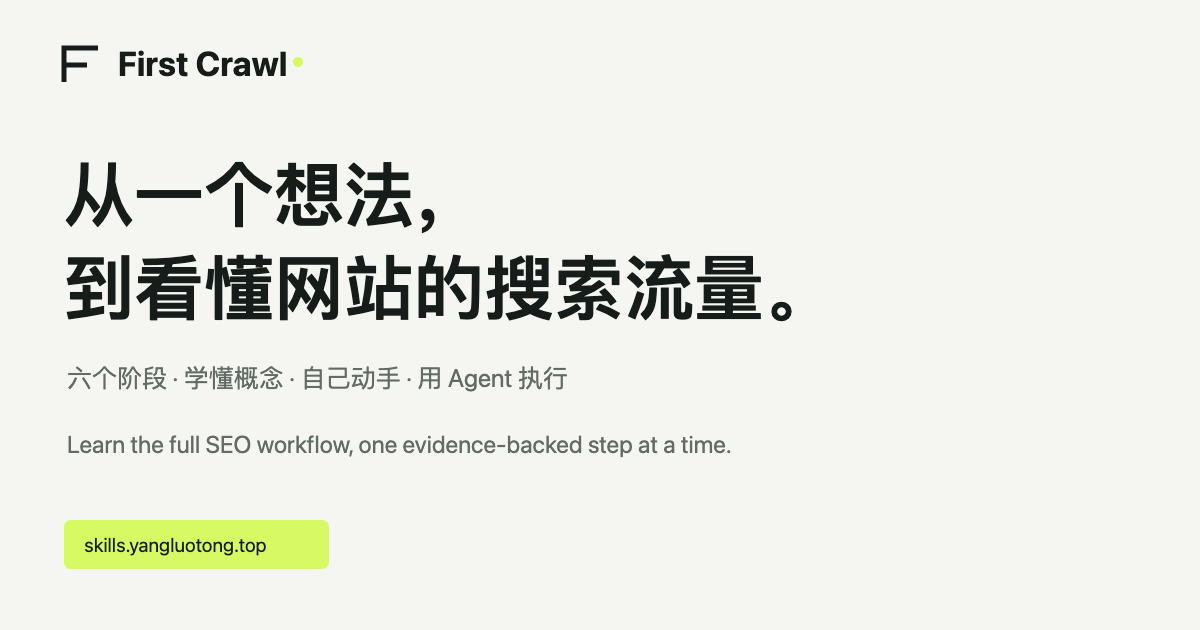
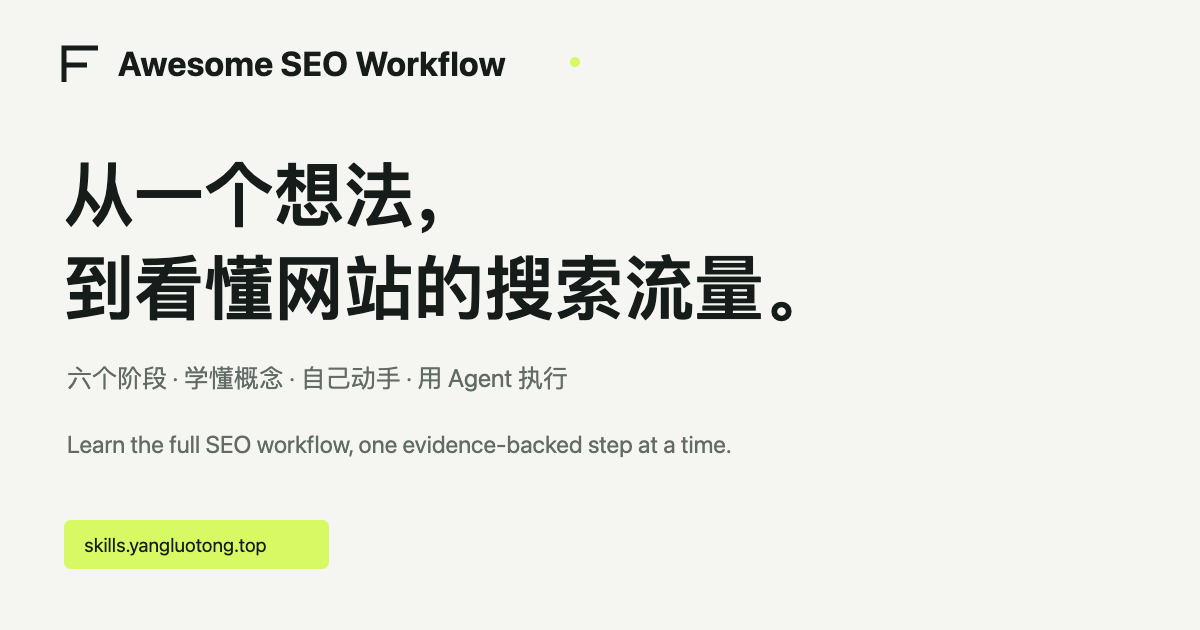
Rename Awesome SEO Workflow and add navigation, read-only CI and pinned releases

Changed region(s): [[0.0925, 0.0603, 0.4317, 0.1206], [0.4625, 0.0905, 0.4933, 0.1206]]

diff --git a/public/style.css b/public/style.css
@@ -25,3 +25,5 @@
 @media(max-width:640px){.beginner-hero{padding:25px 0 26px}.beginner-hero h1{font-size:40px;line-height:1.15;letter-spacing:-1.5px;margin-bottom:18px}.beginner-hero .eyebrow{font-size:11px;margin-bottom:15px}.beginner-hero .lede{font-size:15px;line-height:1.8;margin-bottom:14px}.beginner-intro{font-size:14px;line-height:1.85;margin:0 0 20px}.beginner-hero .button{font-size:13px}.search-story{margin-top:26px;padding:20px 18px;border-radius:11px}.search-story figcaption{font-size:11px;margin-bottom:18px}.story-search p{font-size:13px;padding:12px 14px}.story-result{padding:3px 10px}.story-result p{font-size:17px}.story-connector{margin:12px 9px}.story-connector span{font-size:10px}.story-page{padding:16px}.story-timer{font-size:43px}.search-story .story-boundary{font-size:11px}.beginner-entries{padding-bottom:34px}.beginner-entries>p{font-size:14px;line-height:1.8;margin-bottom:20px}.beginner-entries>div{display:block}.entry-link{padding-top:17px;margin:0 0 27px}.entry-link>strong{font-size:16px}.entry-link>span,.entry-link>p{font-size:14px;line-height:1.85}.entry-link h2{font-size:22px}.beginner-section{padding:32px 0 38px}.beginner-section h2{font-size:27px;letter-spacing:-.6px;margin-bottom:20px}.beginner-section>.eyebrow{font-size:11px}.beginner-flow ol{display:block;margin:22px 0}.beginner-flow li{padding-top:14px;margin-bottom:23px;font-size:15px;line-height:1.85}.mechanism-distinction{font-size:13px;line-height:1.85}.home-practice{display:block}.home-practice .prose>p:first-child{font-size:19px}.home-practice .prose p{font-size:15px}.home-practice .prose>p:last-child>a{font-size:14px}.beginner-section-intro{font-size:14px}.beginner-lesson-row{grid-template-columns:29px minmax(0,1fr) 15px;gap:13px;padding:23px 0}.beginner-lesson-row h3{font-size:21px;margin-bottom:8px}.beginner-lesson-row p{font-size:14px}.beginner-lesson-output{grid-column:2;grid-row:2;font-size:12px}.beginner-lesson-row>span:last-child{grid-column:3;grid-row:1}.beginner-takeaway p,.beginner-ai>p{font-size:15px}.beginner-takeaway p:last-child{font-size:12px}.beginner-disclosure>summary{font-size:15px}.beginner-disclosure>p{font-size:14px!important}.beginner-page .page-head h1{font-size:36px}.beginner-page .page-head .lede{font-size:20px;line-height:1.6}.beginner-page .article-layout{display:block}.beginner-page .prose>p:first-child{font-size:16px}.beginner-step{margin:28px 0 32px}.beginner-step h2{font-size:23px}.prose .one-action{font-size:17px;padding-left:17px}.worked-record{padding:20px 18px}.prose .worked-record pre{font-size:15px;line-height:1.9}.lesson-paths h3{font-size:18px}.lesson-paths p{font-size:15px}.prose .lesson-save{font-size:12px}.lesson-next h2{font-size:23px}.lesson-next .page-next>a{font-size:13px;max-width:100%}.lesson-next .page-next{display:block}.lesson-next .page-next>a{display:block;margin:12px 0}.complete-checklist h2{font-size:22px}}
 
 .mobile-seo-intro{display:none}@media(max-width:640px){.beginner-hero .beginner-intro{display:none}.beginner-entries>.mobile-seo-intro{display:block;font-size:14px;line-height:1.85;margin:0 0 20px}}
+
+@media(max-width:700px){.site-header .brand{font-size:16px;letter-spacing:-.5px}.site-header .brand-mark{width:21px;height:21px;flex:none}.site-header .brand-dot{flex:none}}

diff --git a/scripts/check-project.py b/scripts/check-project.py
@@ -1,0 +1,97 @@
+"""Offline public-project checks. No account access, deployments or live Skill runs."""
+from pathlib import Path
+from html.parser import HTMLParser
+from urllib.parse import urlsplit, unquote
+from zipfile import ZipFile
+import hashlib, json, posixpath, re, subprocess
+
+ROOT=Path(__file__).resolve().parents[1]
+def run(*args):
+    subprocess.run(args,cwd=ROOT,check=True)
+
+run('python3','examples/verify.py')
+run('python3','content/workflow/validate.py')
+run('python3','scripts/validate-skill-locales.py')
+run('npm','run','build:release')
+
+def unique(values,label):
+    assert len(values)==len(set(values)),f'Duplicate {label}'
+
+locales=json.loads((ROOT/'skills/locales.json').read_text())
+unique([s['id'] for s in locales['skills']],'Skill IDs')
+concepts=json.loads((ROOT/'content/concepts/concepts.json').read_text())
+unique([c['id'] for c in concepts['items']],'concept IDs')
+lessons=json.loads((ROOT/'content/beginner/stages.replacement.json').read_text())
+unique([s['id'] for s in lessons['stages']],'lesson IDs')
+dist=ROOT/'dist'
+info=json.loads((dist/'build-info.json').read_text())
+unique(info['pages'],'page routes')
+assert len(info['pages'])==60
+
+class Page(HTMLParser):
+    def __init__(self):
+        super().__init__();self.ids=[];self.links=[];self.headings=0
+    def handle_starttag(self,tag,attrs):
+        attrs=dict(attrs)
+        if 'id' in attrs:self.ids.append(attrs['id'])
+        if tag=='h1':self.headings+=1
+        for key in ['href','src']:
+            if key in attrs:self.links.append(attrs[key])
+
+pages={}
+for path in dist.rglob('*.html'):
+    page=Page();page.feed(path.read_text());pages[path.resolve()]=page
+    unique(page.ids,str(path.relative_to(dist))+' HTML IDs')
+for path,page in pages.items():
+    relative='/'+str(path.relative_to(dist))
+    for link in page.links:
+        u=urlsplit(link)
+        if u.scheme or u.netloc:continue
+        target=unquote(u.path)
+        if not target:target=relative
+        elif not target.startswith('/'):target=posixpath.join(posixpath.dirname(relative),target)
+        target=posixpath.normpath(target)
+        file=(dist/target.lstrip('/')).resolve()
+        if file.is_dir():file=file/'index.html'
+        assert file.is_relative_to(dist) and file.exists(),f'Missing internal link: {relative} -> {link}'
+        if u.fragment and file in pages:
+            assert unquote(u.fragment) in pages[file].ids,f'Missing anchor: {relative} -> {link}'
+for route in info['pages']:
+    file=(dist/route.lstrip('/')/'index.html').resolve()
+    assert pages[file].headings==1,f'Expected one h1: {route}'
+
+for lang in ['zh','en']:
+    for skill in locales['skills']:
+        source=ROOT/skill['languages'][lang]['sourceDirectory'];id=skill['id']
+        file=dist/skill['languages'][lang]['zip'].lstrip('/')
+        with ZipFile(file) as archive:
+            for item in source.rglob('*'):
+                if item.is_file() and item.name!='.DS_Store':
+                    assert archive.read(id+'/'+str(item.relative_to(source)))==item.read_bytes(),f'Incomplete {lang} package: {id}'
+            assert archive.read(id+'/LICENSE')==(ROOT/'LICENSE').read_bytes()
+        raw=dist/skill['languages'][lang]['rawEntrypoint'].lstrip('/')
+        assert raw.read_bytes()==(source/'SKILL.md').read_bytes()
+    with ZipFile(dist/'downloads/skills'/lang/'first-crawl-execution-skills.zip') as archive:
+        assert sum(name.endswith('/SKILL.md') for name in archive.namelist())==7
+        for skill in locales['skills']:
+            assert archive.read(skill['id']+'/SKILL.md')==(ROOT/skill['languages'][lang]['sourceDirectory']/'SKILL.md').read_bytes()
+
+manifest=json.loads((dist/'downloads/skills/manifest.json').read_text())
+assert manifest['sourceCommit']==info['sourceCommit']
+assert manifest['version']==info['version']
+assert len(manifest['downloads'])==16
+for item in manifest['downloads']:
+    file=dist/item['path'].lstrip('/')
+    assert hashlib.sha256(file.read_bytes()).hexdigest()==item['sha256']
+    release=dist/'downloads/releases'/manifest['releaseTag']/item['releaseAsset']
+    assert release.read_bytes()==file.read_bytes()
+    assert item['sourceCommit']==info['sourceCommit'] and item['version']==info['version']
+for skill in locales['skills']:
+    for suffix in ['.zip','/SKILL.md']:
+        assert (dist/'downloads/skills'/(skill['id']+suffix)).read_bytes()==(dist/'downloads/skills/zh'/(skill['id']+suffix)).read_bytes()
+
+for filename in ['README.md','README.zh-CN.md','USAGE.md','USAGE.zh-CN.md','CONTRIBUTING.md','CONTRIBUTING.zh-CN.md']:
+    for target in re.findall(r'\[[^\]]*\]\(([^)]+)\)',(ROOT/filename).read_text()):
+        u=urlsplit(target)
+        if not u.scheme and not u.netloc and u.path:assert (ROOT/unquote(u.path)).exists(),f'Missing document link: {filename}'
+print(json.dumps({'result':'PASS','scope':'Offline IDs, internal routes/anchors, bilingual packages and release version/commit/checksums','pages':60,'originalSkills':7,'languageEntries':14,'versionedZIPs':16,'liveSkillExecution':'NOT_RUN'}))

diff --git a/scripts/package-skills.py b/scripts/package-skills.py
@@ -1,7 +1,13 @@
 """Package complete Chinese/English original Skills; never install or execute them."""
 from pathlib import Path
-from zipfile import ZipFile, ZIP_DEFLATED
-import hashlib, json, shutil
+from zipfile import ZipFile, ZipInfo, ZIP_DEFLATED
+import argparse, hashlib, json, shutil
+
+parser=argparse.ArgumentParser()
+parser.add_argument('--version',required=True)
+parser.add_argument('--commit',required=True)
+parser.add_argument('--repository',required=True)
+args=parser.parse_args()
 
 root=Path(__file__).resolve().parents[1]
 out=root/'dist/downloads/skills'
@@ -9,6 +15,19 @@ out.mkdir(parents=True,exist_ok=True)
 manifest=json.loads((root/'skills/locales.json').read_text())
 license_bytes=(root/'LICENSE').read_bytes()
 downloads=[]
+release= root/'dist/downloads/releases'/('v'+args.version)
+release.mkdir(parents=True,exist_ok=True)
+
+def add_bytes(archive,name,data):
+    info=ZipInfo(name,date_time=(1980,1,1,0,0,0))
+    info.compress_type=ZIP_DEFLATED
+    info.external_attr=0o100644 << 16
+    archive.writestr(info,data)
+
+def record(archive,lang,skill):
+    filename=f'awesome-seo-workflow-v{args.version}-{lang}-{skill}.zip'
+    shutil.copyfile(archive,release/filename)
+    downloads.append({'version':args.version,'sourceCommit':args.commit,'language':lang,'skillId':skill,'path':'/downloads/skills/'+lang+'/'+archive.name,'releaseAsset':filename,'fixedVersionURL':args.repository+'/releases/download/v'+args.version+'/'+filename,'sha256':hashlib.sha256(archive.read_bytes()).hexdigest(),'liveExecution':'NOT_RUN'})
 
 def folder_files(folder):
     return [p for p in sorted(folder.rglob('*')) if p.is_file() and p.name!='.DS_Store']
@@ -27,18 +46,18 @@ for lang in ['zh','en']:
         archive=destination/(folder.name+'.zip')
         with ZipFile(archive,'w',ZIP_DEFLATED) as z:
             for file in folder_files(folder):
-                z.write(file,folder.name+'/'+str(file.relative_to(folder)))
-            z.writestr(folder.name+'/LICENSE',license_bytes)
-        downloads.append({'language':lang,'skillId':folder.name,'path':'/downloads/skills/'+lang+'/'+archive.name,'sha256':hashlib.sha256(archive.read_bytes()).hexdigest(),'liveExecution':'NOT_RUN'})
+                add_bytes(z,folder.name+'/'+str(file.relative_to(folder)),file.read_bytes())
+            add_bytes(z,folder.name+'/LICENSE',license_bytes)
+        record(archive,lang,folder.name)
     archive=destination/'first-crawl-execution-skills.zip'
     with ZipFile(archive,'w',ZIP_DEFLATED) as z:
-        z.writestr('LICENSE',license_bytes)
-        z.write(root/('USAGE.zh-CN.md' if lang=='zh' else 'USAGE.md'),'README.md')
+        add_bytes(z,'LICENSE',license_bytes)
+        add_bytes(z,'README.md',(root/('USAGE.zh-CN.md' if lang=='zh' else 'USAGE.md')).read_bytes())
         for folder in language_folders:
             for file in folder_files(folder):
-                z.write(file,folder.name+'/'+str(file.relative_to(folder)))
-            z.writestr(folder.name+'/LICENSE',license_bytes)
-    downloads.append({'language':lang,'skillId':'all-seven','path':'/downloads/skills/'+lang+'/'+archive.name,'sha256':hashlib.sha256(archive.read_bytes()).hexdigest(),'liveExecution':'NOT_RUN'})
+                add_bytes(z,folder.name+'/'+str(file.relative_to(folder)),file.read_bytes())
+            add_bytes(z,folder.name+'/LICENSE',license_bytes)
+    record(archive,lang,'all-seven')
 
 # The eight original unprefixed download URLs and raw directories remain Chinese.
 for skill in manifest['skills']:
@@ -46,7 +65,11 @@ for skill in manifest['skills']:
     shutil.copytree(out/'zh'/id,out/id,dirs_exist_ok=True)
     shutil.copyfile(out/'zh'/(id+'.zip'),out/(id+'.zip'))
 shutil.copyfile(out/'zh/first-crawl-execution-skills.zip',out/'first-crawl-execution-skills.zip')
-(out/'manifest.json').write_text(json.dumps({'instructionLanguages':['zh-CN','en'],'legacyDownloadsLanguage':'zh-CN','downloads':downloads},ensure_ascii=False,indent=2)+'\n')
+release_manifest={'version':args.version,'sourceCommit':args.commit,'repository':args.repository,'releaseTag':'v'+args.version,'releaseURL':args.repository+'/releases/tag/v'+args.version,'instructionLanguages':['zh-CN','en'],'legacyDownloadsLanguage':'zh-CN','downloads':downloads}
+manifest_text=json.dumps(release_manifest,ensure_ascii=False,indent=2)+'\n'
+(out/'manifest.json').write_text(manifest_text)
+(release/'manifest.json').write_text(manifest_text)
+(release/'SHA256SUMS.txt').write_text(''.join(d['sha256']+'  '+d['releaseAsset']+'\n' for d in downloads))
 
 templates=json.loads((root/'content/workflow/templates.json').read_text())['templates']
 for lang in ['zh','en']:

diff --git a/README.md b/README.md
@@ -1,6 +1,8 @@
-# First Crawl
+# Awesome SEO Workflow
 
 English · [简体中文](README.zh-CN.md)
+
+[Public repository: codesica/awesome-seo-workflow](https://github.com/codesica/awesome-seo-workflow). This is the existing repository under its new name; Git history, issues and stars are retained. Existing `first-crawl` download filenames and stable lesson IDs remain compatible.
 
 A beginner SEO course and seven original Agent Skills. Follow one fictional five-minute timer example to understand how search can lead to a useful page, then complete one small task at a time. The examples do not establish real demand, indexing, rankings, traffic, or income.
 
@@ -28,6 +30,47 @@ The [introduction](https://skills.yangluotong.top/en/start/) is separate from le
 The [six lessons](https://skills.yangluotong.top/en/roadmap/) cover needs, page planning, content production, publication checks, discovery/promotion, and evidence-led improvement. The existing-site route uses pages you manage that are intended to be public. Keep private pages private. A draft is not a working tool or a published site.
 
 Each lesson puts the small task, completed fictional example, your path, and completion criteria first. Open detailed technical checklists and optional Skills when needed. All six stable stage IDs and 25 original actions remain available.
+
+## Six clickable steps
+
+Complete your own small task first. The paper route works without a website.
+
+| Step | Keep this output |
+| --- | --- |
+| [01 · Decide whom to help](https://skills.yangluotong.top/en/stages/01-search-opportunity/) | Four lines about the audience and task |
+| [02 · Sketch the page](https://skills.yangluotong.top/en/stages/02-page-plan/) | One page sketch |
+| [03 · Write and make the page](https://skills.yangluotong.top/en/stages/03-content-production/) | A readable draft or usable page |
+| [04 · Check the published page](https://skills.yangluotong.top/en/stages/04-publish-check/) | A publication check record |
+| [05 · Help people find a way in](https://skills.yangluotong.top/en/stages/05-discovery-promotion/) | A discovery and sharing record |
+| [06 · Check what happened, then improve](https://skills.yangluotong.top/en/stages/06-measure-iterate/) | One change with review conditions |
+
+## Seven original Skills: task → input → output
+
+Understand the task before choosing a bounded helper. Three browser packages require existing access; all seven remain live-site `NOT_RUN`.
+
+| Skill / task | Input | Output |
+| --- | --- | --- |
+| [Research public search results](https://skills.yangluotong.top/en/skills/research-search-results/) · `research-search-results` | Question, audience, region and bounded scope | Observed-evidence JSON with unknowns |
+| [Search opportunity evidence](https://skills.yangluotong.top/en/skills/seo-opportunity-evidence/) · `seo-opportunity-evidence` | Audience problems, existing pages, search observations or feedback | Opportunity cards and a next validation step |
+| [Page brief and search intent](https://skills.yangluotong.top/en/skills/seo-page-brief/) · `seo-page-brief` | Opportunity card, reader task, original evidence and existing pages | Page brief and a production handoff |
+| [Publication technical audit](https://skills.yangluotong.top/en/skills/seo-publish-audit/) · `seo-publish-audit` | URL, indexing intent, HTML, headers, robots, sitemap and links | Seven evidence checks, blockers, unknowns and proposed fixes |
+| [Read Google reports](https://skills.yangluotong.top/en/skills/inspect-search-console/) · `inspect-search-console` | Exact property, dates/URL and existing read access | Result JSON with filters, context and limits |
+| [Read Bing reports](https://skills.yangluotong.top/en/skills/inspect-bing-webmaster/) · `inspect-bing-webmaster` | Exact site, URL/sitemap and existing read access | Index/discovery evidence JSON; no submissions |
+| [Evidence-led iteration](https://skills.yangluotong.top/en/skills/seo-measure-decide/) · `seo-measure-decide` | Data export, change log, comparable baseline and observation window | Decision card, review conditions and stopping rules |
+
+Stage 3 has no dedicated production Skill; stage 5 does not automate outreach. See [usage](USAGE.md).
+
+## Optional third-party sources
+
+These are separate from the seven original packages. License and cost limits remain project-specific; their code is not bundled.
+
+- [SEO Skill · Local CLI](https://skills.yangluotong.top/en/skills/local-seo/)
+- [Claude SEO · Sitemap](https://skills.yangluotong.top/en/skills/seo-sitemap/)
+- [Firecrawl Scrape](https://skills.yangluotong.top/en/skills/firecrawl-scrape/)
+
+## Pinned versions and download verification
+
+Use [GitHub Releases](https://github.com/codesica/awesome-seo-workflow/releases) for a fixed version. Each release links the version, source commit, Chinese/English ZIPs and SHA-256 checksums; the website [download manifest](https://skills.yangluotong.top/downloads/skills/manifest.json) supplies the same mapping. Checksums establish file identity, not live SEO execution.
 
 ## Run locally
 
@@ -63,10 +106,7 @@ The four offline fixtures are synthetic. One fixed-version `seo 0.2.41 audit-pag
 Stage 3 has no dedicated production Skill. Stage 5 has read-only Bing inspection, not automated promotion. The paper route teaches planning and evidence interpretation; it does not build the example timer. Editorial review and browser QA are not a real beginner usability test.
 
 ```sh
-python3 examples/verify.py
-python3 content/workflow/validate.py
-python3 scripts/validate-skill-locales.py
-npm run build:release
+npm run check
 ```
 
 These checks validate the stated local scope, not indexing, rankings, growth, or end-to-end agent execution.

diff --git a/README.zh-CN.md b/README.zh-CN.md
@@ -1,6 +1,8 @@
-# First Crawl
+# Awesome SEO Workflow
 
 简体中文 · [English](README.md)
+
+[公开仓库：codesica/awesome-seo-workflow](https://github.com/codesica/awesome-seo-workflow)。这是原仓库的直接改名，Git 历史、issues 和 stars 均保留。现有 `first-crawl` 下载文件名及稳定课程 ID 保持兼容。
 
 一套适合新手的 SEO 课程，以及七个原创 Agent Skills。用“免费五分钟冥想计时网页”的假设例子，理解搜索怎样把人带到有用的页面，再一次完成一件小事。示例不代表真实需求、收录、排名、流量或收入。
 
@@ -28,6 +30,47 @@
 [六堂课](https://skills.yangluotong.top/zh/roadmap/) 依次处理需要、页面规划、内容制作、上线检查、发现与推广、根据证据改进。已有网站时，选择你负责、原本就应公开的页面；私密页面继续保持私密。草稿不等于可用工具，也不等于网站已上线。
 
 每课先展示小动作、填好的假设示例、适合你的路径和完成标准。需要时再展开技术清单与可选 Skills。原有六个稳定阶段 ID 和 25 个动作均保留。
+
+## 六阶段可点速览
+
+先完成自己的小任务；没有网站也能走纸上练习路线。
+
+| 阶段 | 这次留下什么 |
+| --- | --- |
+| [01 · 想清楚要帮谁](https://skills.yangluotong.top/zh/stages/01-search-opportunity/) | 受众与任务四行记录 |
+| [02 · 画出这一页](https://skills.yangluotong.top/zh/stages/02-page-plan/) | 一张页面草图 |
+| [03 · 写出来、做出来](https://skills.yangluotong.top/zh/stages/03-content-production/) | 可读草稿或可用页面 |
+| [04 · 打开上线页面检查](https://skills.yangluotong.top/zh/stages/04-publish-check/) | 公开页面检查记录 |
+| [05 · 让需要的人找到入口](https://skills.yangluotong.top/zh/stages/05-discovery-promotion/) | 发现与分享入口记录 |
+| [06 · 看发生了什么，再改](https://skills.yangluotong.top/zh/stages/06-measure-iterate/) | 一项改动与复查条件 |
+
+## 七个原创 Skills：任务 → 输入 → 输出
+
+先理解任务，再选一个有界帮手。三个浏览器包需要已有授权；七个包都保持真实站点 `NOT_RUN`。
+
+| Skill / 任务 | 输入 | 输出 |
+| --- | --- | --- |
+| [公开搜索结果研究](https://skills.yangluotong.top/zh/skills/research-search-results/) · `research-search-results` | 问题、受众、地区和有界搜索范围 | 观察证据 JSON；保留未检查项 |
+| [搜索机会证据卡](https://skills.yangluotong.top/zh/skills/seo-opportunity-evidence/) · `seo-opportunity-evidence` | 受众问题、已有页面、搜索观察或用户反馈 | 机会卡 JSON；推荐下一验证动作 |
+| [单页规划与搜索意图](https://skills.yangluotong.top/zh/skills/seo-page-brief/) · `seo-page-brief` | 机会卡、读者任务、第一手材料、现有页面 | 页面 brief JSON；交给内容制作的清单 |
+| [发布技术检查](https://skills.yangluotong.top/zh/skills/seo-publish-audit/) · `seo-publish-audit` | URL、公开索引意图、HTML/响应头/robots/sitemap/内链 | 七项证据审计；阻塞、未知与修复建议 |
+| [读取 Google 报告](https://skills.yangluotong.top/zh/skills/inspect-search-console/) · `inspect-search-console` | 精确资源、日期/网址和已有读取权限 | 带筛选条件、页面及限制的结果 JSON |
+| [读取 Bing 后台](https://skills.yangluotong.top/zh/skills/inspect-bing-webmaster/) · `inspect-bing-webmaster` | 精确站点、网址/网站地图和已有读取权限 | 索引与发现证据 JSON；不提交索引 |
+| [数据驱动迭代决策](https://skills.yangluotong.top/zh/skills/seo-measure-decide/) · `seo-measure-decide` | 数据导出、改动记录、可比基线、观察窗口 | 迭代决策卡；复查与停止条件 |
+
+第 3 阶段没有专门的制作 Skill；第 5 阶段不提供自动对外推广。完整用法见 [使用说明](USAGE.zh-CN.md)。
+
+## 可选第三方来源
+
+这三个来源与七个原创包分开，许可和费用分别说明，不打包第三方代码。
+
+- [SEO Skill · Local CLI](https://skills.yangluotong.top/zh/skills/local-seo/)
+- [Claude SEO · Sitemap](https://skills.yangluotong.top/zh/skills/seo-sitemap/)
+- [Firecrawl Scrape](https://skills.yangluotong.top/zh/skills/firecrawl-scrape/)
+
+## 固定版本与下载校验
+
+使用 [GitHub Releases](https://github.com/codesica/awesome-seo-workflow/releases) 获取固定版本。每个发布将版本、源提交、中文/英文 ZIP 与 SHA-256 校验和关联；网站的 [下载清单](https://skills.yangluotong.top/downloads/skills/manifest.json) 也提供对应关系。校验和用于确认文件一致，不证明 Skill 在真实网站运行过。
 
 ## 本地运行
 
@@ -63,10 +106,7 @@ PORT=4180 npm run preview
 第 3 课没有专门制作网页的 Skill。第 5 课包含只读 Bing 检查，不包含自动推广。纸上路径学习规划与证据解释，不会做出示例中的计时器。编辑复核和浏览器检查不等于真实新手试读。
 
 ```sh
-python3 examples/verify.py
-python3 content/workflow/validate.py
-python3 scripts/validate-skill-locales.py
-npm run build:release
+npm run check
 ```
 
 上述检查只验证各自声明的本地范围，不验证收录、排名、增长或 Agent 端到端执行。

diff --git a/CONTRIBUTING.md b/CONTRIBUTING.md
@@ -19,3 +19,5 @@ Keep English project documents in README.md, USAGE.md, CONTRIBUTING.md and THIRD
 The Chinese Skill entrypoints remain under skills/browser and skills/workflow. Full English counterparts are under skills/en/browser and skills/en/workflow. Each selected language folder must include a discoverable SKILL.md and every referenced relative file. Preserve the Skill name, machine keys, enum values, nulls, and live-site NOT_RUN provenance. Translation is not an execution test. Do not translate immutable raw run/fixture evidence into a different claimed observation.
 
 Run `python3 scripts/validate-skill-locales.py` and `npm run build:release` after changing Skill instructions or packaging. Check each language's full ZIP, relative references, license, raw instruction download, and website language links. Keep old Chinese download addresses working; prefer explicit /downloads/skills/zh/ and /en/ paths for new links. Update catalogs, website package text, and reference explanations together.
+
+Run `npm run check` for the single offline check: synthetic fixtures, content IDs, internal links/anchors, complete zh/en packages, and release version/commit/checksums. PR CI has `contents: read`, no deployment credentials, no `pull_request_target`, and no publication step. Keep private thread IDs, handoff notes and personal machine paths out of public source and release assets. For a new release, change `site.config.mjs` version first; publish a new tag and do not replace existing fixed-version assets.

diff --git a/USAGE.md b/USAGE.md
@@ -1,4 +1,4 @@
-# Use a First Crawl Skill
+# Use a Awesome SEO Workflow Skill
 
 English · [简体中文](USAGE.zh-CN.md) · [Project README](README.md)
 
@@ -23,7 +23,7 @@ There is no dedicated page-building Skill or automatic outreach Skill. Browser p
 - English source: `skills/en/browser/<name>/` or `skills/en/workflow/<name>/`.
 - Chinese source: `skills/browser/<name>/` or `skills/workflow/<name>/`.
 - [English downloads](https://skills.yangluotong.top/en/skills/) and [Chinese downloads](https://skills.yangluotong.top/zh/skills/) label the package language explicitly; either page also links the other version.
-- Each ZIP extracts to `<name>/SKILL.md` with its required relative references and assets. Combined ZIPs contain the seven named folders. Review the whole package, including references and the MIT license.
+- Each ZIP extracts to `<name>/SKILL.md` with its required relative references and assets. Combined ZIPs contain the seven named folders. The `first-crawl-execution-skills.zip` filenames remain stable after the repository rename to `awesome-seo-workflow`. Review the whole package, including references and the MIT license.
 
 Use one language per Skill name in one installation. The entry filename stays `SKILL.md`, and the frontmatter `name` is the same. A second language copy is an alternative, not an additional same-named installation. Other hosts have their own Skill discovery rules; broad host compatibility has not been executed or certified.
 

diff --git a/CONTRIBUTING.zh-CN.md b/CONTRIBUTING.zh-CN.md
@@ -19,3 +19,5 @@
 中文 Skill 入口继续位于 skills/browser 与 skills/workflow；完整英文对应版本位于 skills/en/browser 与 skills/en/workflow。每个语言文件夹都有可发现的 SKILL.md 和全部必要相对引用。保留 Skill 名称、机器字段、枚举、null 和真实网站 NOT_RUN 的证据状态。翻译不等于实际执行验证。原始运行/案例证据保持原样，不能把翻译后的内容说成另一次观察。
 
 改动 Skill 或打包后，运行 `python3 scripts/validate-skill-locales.py` 和 `npm run build:release`。检查两种语言完整 ZIP、相对引用、许可、原始说明下载及网站语言入口。旧中文下载地址继续可用；新链接优先使用明确的 /downloads/skills/zh/ 和 /en/ 路径。同时更新目录、网页说明和字段解释。
+
+使用 `npm run check` 完成统一离线校验：合成案例、内容 ID、内部链接/锚点、中英完整包，以及发布版本、提交和校验和。PR CI 只有 `contents: read`，没有部署凭据、`pull_request_target` 或发布步骤。私密会话 ID、交接记录和个人本机路径不得进入公开源码或 Release。新发布先更新 `site.config.mjs` 的版本，再创建新 tag；不要覆盖既有固定版本附件。

diff --git a/USAGE.zh-CN.md b/USAGE.zh-CN.md
@@ -1,4 +1,4 @@
-# 使用 First Crawl Skill
+# 使用 Awesome SEO Workflow Skill
 
 简体中文 · [English](USAGE.md) · [项目说明](README.zh-CN.md)
 
@@ -65,3 +65,5 @@ cp -R skills/browser/research-search-results ~/.codex/skills/
 ## 构建或参与贡献
 
 本地预览与发布见 [项目说明](README.zh-CN.md)，双语维护见 [贡献说明](CONTRIBUTING.zh-CN.md)，可选外部项目见 [第三方归属](THIRD_PARTY.zh-CN.md)。七个原创下载包不包含第三方 Skill 的代码或说明。
+
+仓库现名为 `awesome-seo-workflow`。现有 `first-crawl-execution-skills.zip` 下载文件名保留，用于兼容旧地址；页面明确区分中文与英文完整包。
